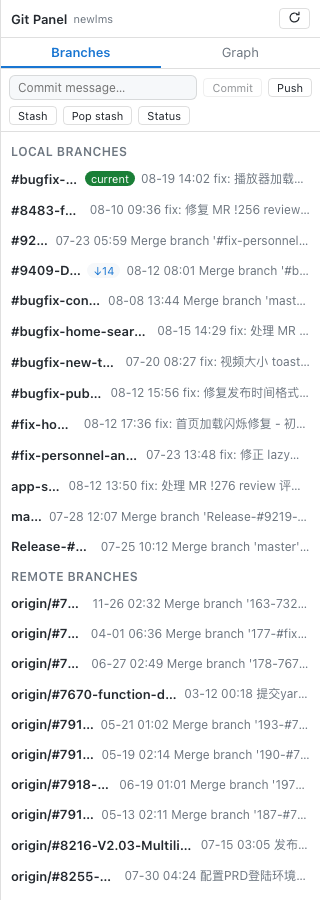
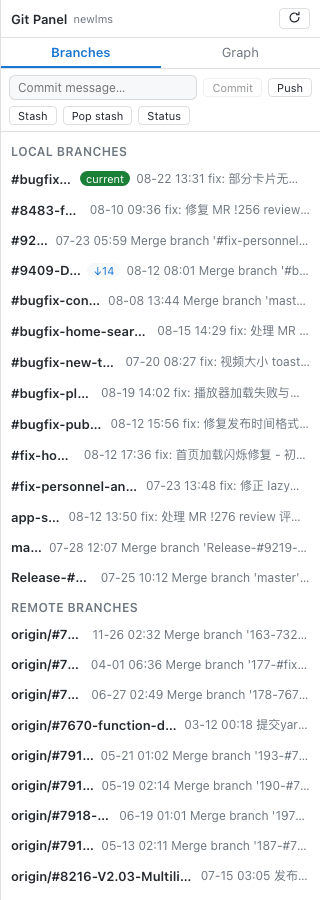
feat: changes list + file diff + cherry-pick/revert; docs zh/en/es
- /git-panel/diff, /cherry-pick, /revert routes
- Changes panel: uncommitted file list with status codes, click to view diff against HEAD
- graph commit actions: cherry-pick to current branch / revert (--no-edit)
- README zh/en/es: document new features; add Feedback section

Changed region(s): [[0.0312, 0.4044, 0.9375, 0.9956], [0.25, 0.1867, 0.9375, 0.2178]]

diff --git a/src/client/Panel.tsx b/src/client/Panel.tsx
@@ -74,6 +74,22 @@ const STYLE = `
 .dsh-gp-write-status { flex:1; min-width:0; font-size:11px; color:var(--muted);
   white-space:nowrap; overflow:hidden; text-overflow:ellipsis; }
 .dsh-gp-write-stash { font-size:11px; color:var(--muted); white-space:pre-wrap; word-break:break-all; }
+.dsh-gp-detail-actions { display:flex; gap:6px; margin-top:6px; }
+.dsh-gp-detail-actions .dsh-gp-btn { font-size:11px; padding:2px 8px; }
+.dsh-gp-changes { border-top:1px solid var(--border); padding:6px 8px; display:flex; flex-direction:column; gap:4px; }
+.dsh-gp-changes-head { display:flex; align-items:center; gap:6px; font-size:11px; color:var(--muted); font-weight:600; }
+.dsh-gp-changes-list { display:flex; flex-direction:column; gap:2px; max-height:120px; overflow-y:auto; }
+.dsh-gp-changes-item { display:flex; align-items:center; gap:6px; padding:3px 6px; border-radius:5px;
+  font-size:11px; color:var(--fg); cursor:pointer; min-width:0; }
+.dsh-gp-changes-item:hover { background:var(--hover); }
+.dsh-gp-changes-code { flex:none; font-family:ui-monospace,SFMono-Regular,Menlo,monospace; font-size:10px;
+  color:var(--current); width:24px; }
+.dsh-gp-changes-file { flex:1; min-width:0; white-space:nowrap; overflow:hidden; text-overflow:ellipsis; }
+.dsh-gp-changes-diff { border:1px solid var(--border); border-radius:6px; margin-top:4px; overflow:hidden; }
+.dsh-gp-changes-diff .dsh-gp-changes-head { padding:4px 6px; background:var(--panel-bg); }
+.dsh-gp-changes-pre { max-height:220px; overflow:auto; font-size:11px; line-height:1.5; padding:6px;
+  white-space:pre; color:var(--fg); margin:0; }
+.dsh-gp-changes-empty { padding:8px; font-size:11px; color:var(--muted); }
 .dsh-gp-empty { padding:20px 10px; text-align:center; color:var(--muted); }
 .dsh-gp-warn { flex:1; display:flex; align-items:center; justify-content:center;
   padding:24px; text-align:center; color:#9a6700; font-size:12px; line-height:1.7; }
@@ -345,8 +361,8 @@ const GraphSvg = memo(function GraphSvg(props: {
 })
 
 /** 提交图谱标签页（memoized：其 props 只在加载/缩放时变化）。 */
-const GraphViewComponent = memo(function GraphViewComponent(props: { graph: GraphView; width: number }): React.ReactElement {
-  const { graph, width } = props
+const GraphViewComponent = memo(function GraphViewComponent(props: { graph: GraphView; width: number; onCherryPick?: (sha: string) => void; onRevert?: (sha: string) => void }): React.ReactElement {
+  const { graph, width, onCherryPick, onRevert } = props
   const t = useT()
   const [selected, setSelected] = useState<LayoutCommit | null>(null)
   const layout = useMemo(() => layoutGraph(graph.commits), [graph])
@@ -510,6 +526,16 @@ const GraphViewComponent = memo(function GraphViewComponent(props: { graph: Grap
         <div className="dsh-gp-detail">
           <div><b>{selected.subject}</b></div>
           <div>{selected.sha} · {selected.author} · {selected.date}</div>
+          {onCherryPick !== undefined || onRevert !== undefined ? (
+            <div className="dsh-gp-detail-actions">
+              {onCherryPick !== undefined ? (
+                <button type="button" className="dsh-gp-btn" onClick={() => onCherryPick(selected.sha)}>{t('op.cherryPick')}</button>
+              ) : null}
+              {onRevert !== undefined ? (
+                <button type="button" className="dsh-gp-btn" onClick={() => onRevert(selected.sha)}>{t('op.revert')}</button>
+              ) : null}
+            </div>
+          ) : null}
         </div>
       ) : null}
     </div>
@@ -543,6 +569,9 @@ export function GitPanel(props: { path: string; api: GitPanelApi }): React.React
   const [commitMsg, setCommitMsg] = useState('')
   const [statusText, setStatusText] = useState('')
   const [stashText, setStashText] = useState('')
+  // 变更文件列表 + 选中的文件 diff。
+  const [changes, setChanges] = useState<Array<{ code: string; file: string }>>([])
+  const [diffState, setDiffState] = useState<{ file: string; content: string; busy: boolean } | null>(null)
 
   ensureStyle()
 
@@ -573,7 +602,23 @@ export function GitPanel(props: { path: string; api: GitPanelApi }): React.React
   const refreshStatus = useCallback(async (): Promise<void> => {
     if (!path) return
     const result = await api.status(path)
-    setStatusText(result.ok ? result.value.output : '')
+    const output = result.ok ? result.value.output : ''
+    setStatusText(output)
+    // 解析 porcelain 行：状态码 + 路径。
+    const list: Array<{ code: string; file: string }> = []
+    for (const line of output.split('\n')) {
+      const m = line.match(/^(\S+)\s+(.+)$/)
+      if (m !== null) list.push({ code: m[1], file: m[2] })
+    }
+    setChanges(list)
+  }, [path, api])
+
+  /** 加载某文件的 diff。 */
+  const loadDiff = useCallback(async (file: string): Promise<void> => {
+    if (!path) return
+    setDiffState({ file, content: '', busy: true })
+    const result = await api.diffFile(path, file)
+    setDiffState({ file, content: result.ok ? result.value.output : result.error?.message ?? '', busy: false })
   }, [path, api])
 
   useEffect(() => {
@@ -753,6 +798,38 @@ export function GitPanel(props: { path: string; api: GitPanelApi }): React.React
           <span className="dsh-gp-write-status" title={statusText}>{statusText.split('\n')[0] ?? ''}</span>
         </div>
         {stashText !== '' ? <div className="dsh-gp-write-stash">{stashText}</div> : null}
+        {changes.length > 0 ? (
+          <div className="dsh-gp-changes">
+            <div className="dsh-gp-changes-head">{t('changes.title')} ({changes.length})</div>
+            <div className="dsh-gp-changes-list">
+              {changes.map((c) => (
+                <div key={c.file} className="dsh-gp-changes-item"
+                  onClick={() => void loadDiff(c.file)}>
+                  <span className="dsh-gp-changes-code">{c.code}</span>
+                  <span className="dsh-gp-changes-file">{c.file}</span>
+                </div>
+              ))}
+            </div>
+            {diffState !== null ? (
+              <div className="dsh-gp-changes-diff">
+                <div className="dsh-gp-changes-head">
+                  <span>{t('changes.diff')}: {diffState.file}</span>
+                  <button type="button" className="dsh-gp-btn"
+                    onClick={() => setDiffState(null)} style={{ marginLeft: 'auto', fontSize: 11, padding: '0 6px' }}>
+                    ✕
+                  </button>
+                </div>
+                {diffState.busy ? (
+                  <div className="dsh-gp-changes-empty">…</div>
+                ) : diffState.content === '' ? (
+                  <div className="dsh-gp-changes-empty">{t('changes.empty')}</div>
+                ) : (
+                  <pre className="dsh-gp-changes-pre">{diffState.content.slice(0, 20000)}</pre>
+                )}
+              </div>
+            ) : null}
+          </div>
+        ) : null}
       </div>
       <div className="dsh-gp-body">
         {loading && !branches && !graph ? <div className="dsh-gp-empty">{t('loading')}</div> : null}
@@ -798,7 +875,12 @@ export function GitPanel(props: { path: string; api: GitPanelApi }): React.React
         ) : null}
 
         {tab === 'graph' && graph ? (
-          <GraphViewComponent graph={graph} width={width} />
+          <GraphViewComponent
+            graph={graph}
+            width={width}
+            onCherryPick={(sha) => void runOp(t('op.cherryPick'), () => api.cherryPick(path, sha))}
+            onRevert={(sha) => void runOp(t('op.revert'), () => api.revertCommit(path, sha))}
+          />
         ) : null}
       </div>
 

diff --git a/src/host/git-service.ts b/src/host/git-service.ts
@@ -265,6 +265,44 @@ export class GitService {
     return { ok: true, output }
   }
 
+  /** 单个文件的变更 diff（已暂存 + 未暂存，git diff HEAD -- <file>）。 */
+  async diffFile(path: string, file: string): Promise<{ ok: boolean; output: string; error?: { code: string; message: string } }> {
+    const canonical = await this.requireWorkspace(path)
+    const name = file.trim()
+    if (name === '' || name.startsWith('/') || name === '..' || name.includes('/../')) {
+      return { ok: false, output: '', error: { code: 'invalid-file', message: '非法文件路径' } }
+    }
+    const run = await this.runner.run(['diff', 'HEAD', '--', name], canonical)
+    if (run.exitCode !== 0) {
+      return { ok: false, output: '', error: { code: 'diff-failed', message: run.stderr.trim() || 'git diff failed' } }
+    }
+    return { ok: true, output: run.stdout }
+  }
+
+  /** 摘取一个提交到当前分支（git cherry-pick）。 */
+  async cherryPick(path: string, sha: string): Promise<OpResult> {
+    const canonical = await this.requireWorkspace(path)
+    const clean = sha.trim()
+    if (clean === '') return { ok: false, output: '', error: { code: 'empty-sha', message: 'sha 不能为空' } }
+    const run = await this.runner.run(['cherry-pick', clean], canonical)
+    if (run.exitCode !== 0) {
+      return { ok: false, output: run.stdout, error: { code: 'cherry-pick-failed', message: run.stderr.trim() || 'git cherry-pick failed' } }
+    }
+    return { ok: true, output: run.stdout.trim() }
+  }
+
+  /** 撤销一个提交（git revert --no-edit）。 */
+  async revertCommit(path: string, sha: string): Promise<OpResult> {
+    const canonical = await this.requireWorkspace(path)
+    const clean = sha.trim()
+    if (clean === '') return { ok: false, output: '', error: { code: 'empty-sha', message: 'sha 不能为空' } }
+    const run = await this.runner.run(['revert', '--no-edit', clean], canonical)
+    if (run.exitCode !== 0) {
+      return { ok: false, output: run.stdout, error: { code: 'revert-failed', message: run.stderr.trim() || 'git revert failed' } }
+    }
+    return { ok: true, output: run.stdout.trim() }
+  }
+
   /** 提交全部变更（git add -A + git commit -m）。 */
   async commit(path: string, message: string): Promise<OpResult> {
     const canonical = await this.requireWorkspace(path)

diff --git a/src/host/routes.ts b/src/host/routes.ts
@@ -162,6 +162,27 @@ function route(service: GitService) {
           json(res, value.ok ? { ok: true, value } : { ok: false, error: value.error ?? BAD_REQUEST })
           return
         }
+        case '/git-panel/diff': {
+          const file = field(payload, 'file')
+          if (file === null) { json(res, { ok: false, error: BAD_REQUEST }, 400); return }
+          const value = await service.diffFile(root, file)
+          json(res, value.ok ? { ok: true, value } : { ok: false, error: value.error ?? BAD_REQUEST })
+          return
+        }
+        case '/git-panel/cherry-pick': {
+          const sha = field(payload, 'sha')
+          if (sha === null) { json(res, { ok: false, error: BAD_REQUEST }, 400); return }
+          const value = await service.cherryPick(root, sha)
+          json(res, value.ok ? { ok: true, value } : { ok: false, error: value.error ?? BAD_REQUEST })
+          return
+        }
+        case '/git-panel/revert': {
+          const sha = field(payload, 'sha')
+          if (sha === null) { json(res, { ok: false, error: BAD_REQUEST }, 400); return }
+          const value = await service.revertCommit(root, sha)
+          json(res, value.ok ? { ok: true, value } : { ok: false, error: value.error ?? BAD_REQUEST })
+          return
+        }
         default:
           json(res, { ok: false, error: { code: 'internal', message: `unknown route ${path}` } }, 404)
       }

diff --git a/src/client/i18n.ts b/src/client/i18n.ts
@@ -40,6 +40,11 @@ const DICTS: Record<Lang, Dict> = {
     'write.status': '状态',
     'op.ok': '操作成功',
     'op.refresh': '刷新',
+    'op.cherryPick': '摘取到此分支',
+    'op.revert': '撤销此提交',
+    'changes.title': '变更文件',
+    'changes.diff': '差异',
+    'changes.empty': '（无差异）',
     'op.failed': '操作失败',
     'menu.rename': '重命名…',
     'menu.delete': '删除',
@@ -90,6 +95,11 @@ const DICTS: Record<Lang, Dict> = {
     'write.status': 'Status',
     'op.ok': 'Done',
     'op.refresh': 'Refresh',
+    'op.cherryPick': 'Cherry-pick here',
+    'op.revert': 'Revert',
+    'changes.title': 'Changes',
+    'changes.diff': 'Diff',
+    'changes.empty': '(no diff)',
     'op.failed': 'Failed',
     'menu.rename': 'Rename…',
     'menu.delete': 'Delete',
@@ -140,6 +150,11 @@ const DICTS: Record<Lang, Dict> = {
     'write.status': 'Estado',
     'op.ok': 'Hecho',
     'op.refresh': 'Actualizar',
+    'op.cherryPick': 'Cherry-pick aquí',
+    'op.revert': 'Revertir',
+    'changes.title': 'Cambios',
+    'changes.diff': 'Diff',
+    'changes.empty': '(sin diff)',
     'op.failed': 'Falló',
     'menu.rename': 'Renombrar…',
     'menu.delete': 'Eliminar',

diff --git a/src/client/api.ts b/src/client/api.ts
@@ -73,6 +73,18 @@ export class GitPanelApi {
     return post<OpResult>('/git-panel/status', { path })
   }
 
+  diffFile(path: string, file: string) {
+    return post<OpResult>('/git-panel/diff', { path, file })
+  }
+
+  cherryPick(path: string, sha: string) {
+    return post<OpResult>('/git-panel/cherry-pick', { path, sha })
+  }
+
+  revertCommit(path: string, sha: string) {
+    return post<OpResult>('/git-panel/revert', { path, sha })
+  }
+
   commit(path: string, message: string) {
     return post<OpResult>('/git-panel/commit', { path, message })
   }

diff --git a/README.en.md b/README.en.md
@@ -18,6 +18,8 @@ A Git panel plugin for the DSH Web GUI: branch management (switch / pull / fetch
   - **Push**: one-click `git push` of the current branch
   - **Stash / pop**: `git stash push` (optional message) / `git stash pop`
   - **Status**: shows the number of changed files (`git status --porcelain`)
+- **Changes + diff**: uncommitted changed files are listed under the write bar (status code + path); click any file to view its full diff against HEAD — glance at what changed before committing
+- **Graph commit actions**: click a commit node in the graph to **cherry-pick it onto the current branch** or **revert it** (`git revert --no-edit`)
 - **Multilingual**: follows the DSH Web UI language (Chinese / English); Spanish browsers automatically get Spanish copy; defaults to Simplified Chinese
 - Follows the current session's working directory: re-binds automatically when switching project sessions
 - Light / dark theme follows the DSH Web GUI
@@ -45,6 +47,10 @@ dsh plugin --profile web add dsh-git-panel
 Restart `dsh web`, open a project session bound to a git repository, and the Git panel appears on the right side of the chat.
 
 > For local development, install via a link instead: `dsh plugin --profile web add link:/path/to/dsh-git-panel`. After editing source, run `npm run build` and refresh the page to see changes.
+
+## Feedback
+
+Found a bug or have a feature request? Open an issue on [GitHub Issues](https://github.com/a792883583/dsh-git-panel/issues) — your feedback helps us make the plugin better.
 
 ## License
 

diff --git a/README.md b/README.md
@@ -18,6 +18,8 @@ DSH Web GUI 的 Git 面板插件：分支管理（切换 / 拉取 / 抓取 / 重
   - **推送**：一键 `git push` 当前分支
   - **暂存 / 恢复暂存**：`git stash push`（可带说明）/ `git stash pop`
   - **状态**：显示当前工作区变更文件数（`git status --porcelain`）
+- **变更文件 + diff**：写操作条下方列出未提交的变更文件（状态码 + 路径），点击任意文件查看与 HEAD 的完整 diff——提交前先过一眼改了什么
+- **图谱提交操作**：点击图谱中的提交节点，可一键 **cherry-pick 到当前分支** 或 **撤销该提交**（`git revert --no-edit`）
 - **多语言**：自动跟随 DSH Web 界面语言（中文 / 英文），西班牙语浏览器自动切换西班牙语，默认简体中文
 - 跟随当前会话工作目录：切换项目会话自动重新绑定
 - 明暗主题跟随 DSH Web GUI
@@ -45,6 +47,10 @@ dsh plugin --profile web add dsh-git-panel
 重启 `dsh web`，打开绑定 git 仓库的项目会话，聊天区右侧出现「Git 面板」。
 
 > 本地开发时可用 `dsh plugin --profile web add link:/path/to/dsh-git-panel` 以链接方式安装，修改源码后 `npm run build` 并刷新页面即可生效。
+
+## 反馈
+
+使用中遇到问题或有功能建议？欢迎到 [GitHub Issues](https://github.com/a792883583/dsh-git-panel/issues) 反馈，帮助我们把插件做得更好。
 
 ## License
 

diff --git a/README.es.md b/README.es.md
@@ -18,6 +18,8 @@ Un plugin de panel de Git para la GUI web de DSH: gestión de ramas (cambiar / t
   - **Empujar (push)**: `git push` de la rama actual con un clic
   - **Guardar / recuperar (stash)**: `git stash push` (mensaje opcional) / `git stash pop`
   - **Estado**: muestra el número de archivos modificados (`git status --porcelain`)
+- **Cambios + diff**: los archivos modificados sin confirmar se listan bajo la barra de escritura (código de estado + ruta); haga clic en un archivo para ver su diff completo contra HEAD — eche un vistazo antes de confirmar
+- **Acciones sobre commits del gráfico**: haga clic en un nodo de commit del gráfico para **cherry-pick a la rama actual** o **revertirlo** (`git revert --no-edit`)
 - **Multilingüe**: sigue el idioma de la interfaz web de DSH (chino / inglés); los navegadores en español reciben automáticamente el texto en español; por defecto chino simplificado
 - Sigue el directorio de trabajo de la sesión actual: se reenlaza automáticamente al cambiar de sesión de proyecto
 - Tema claro / oscuro siguiendo la GUI web de DSH
